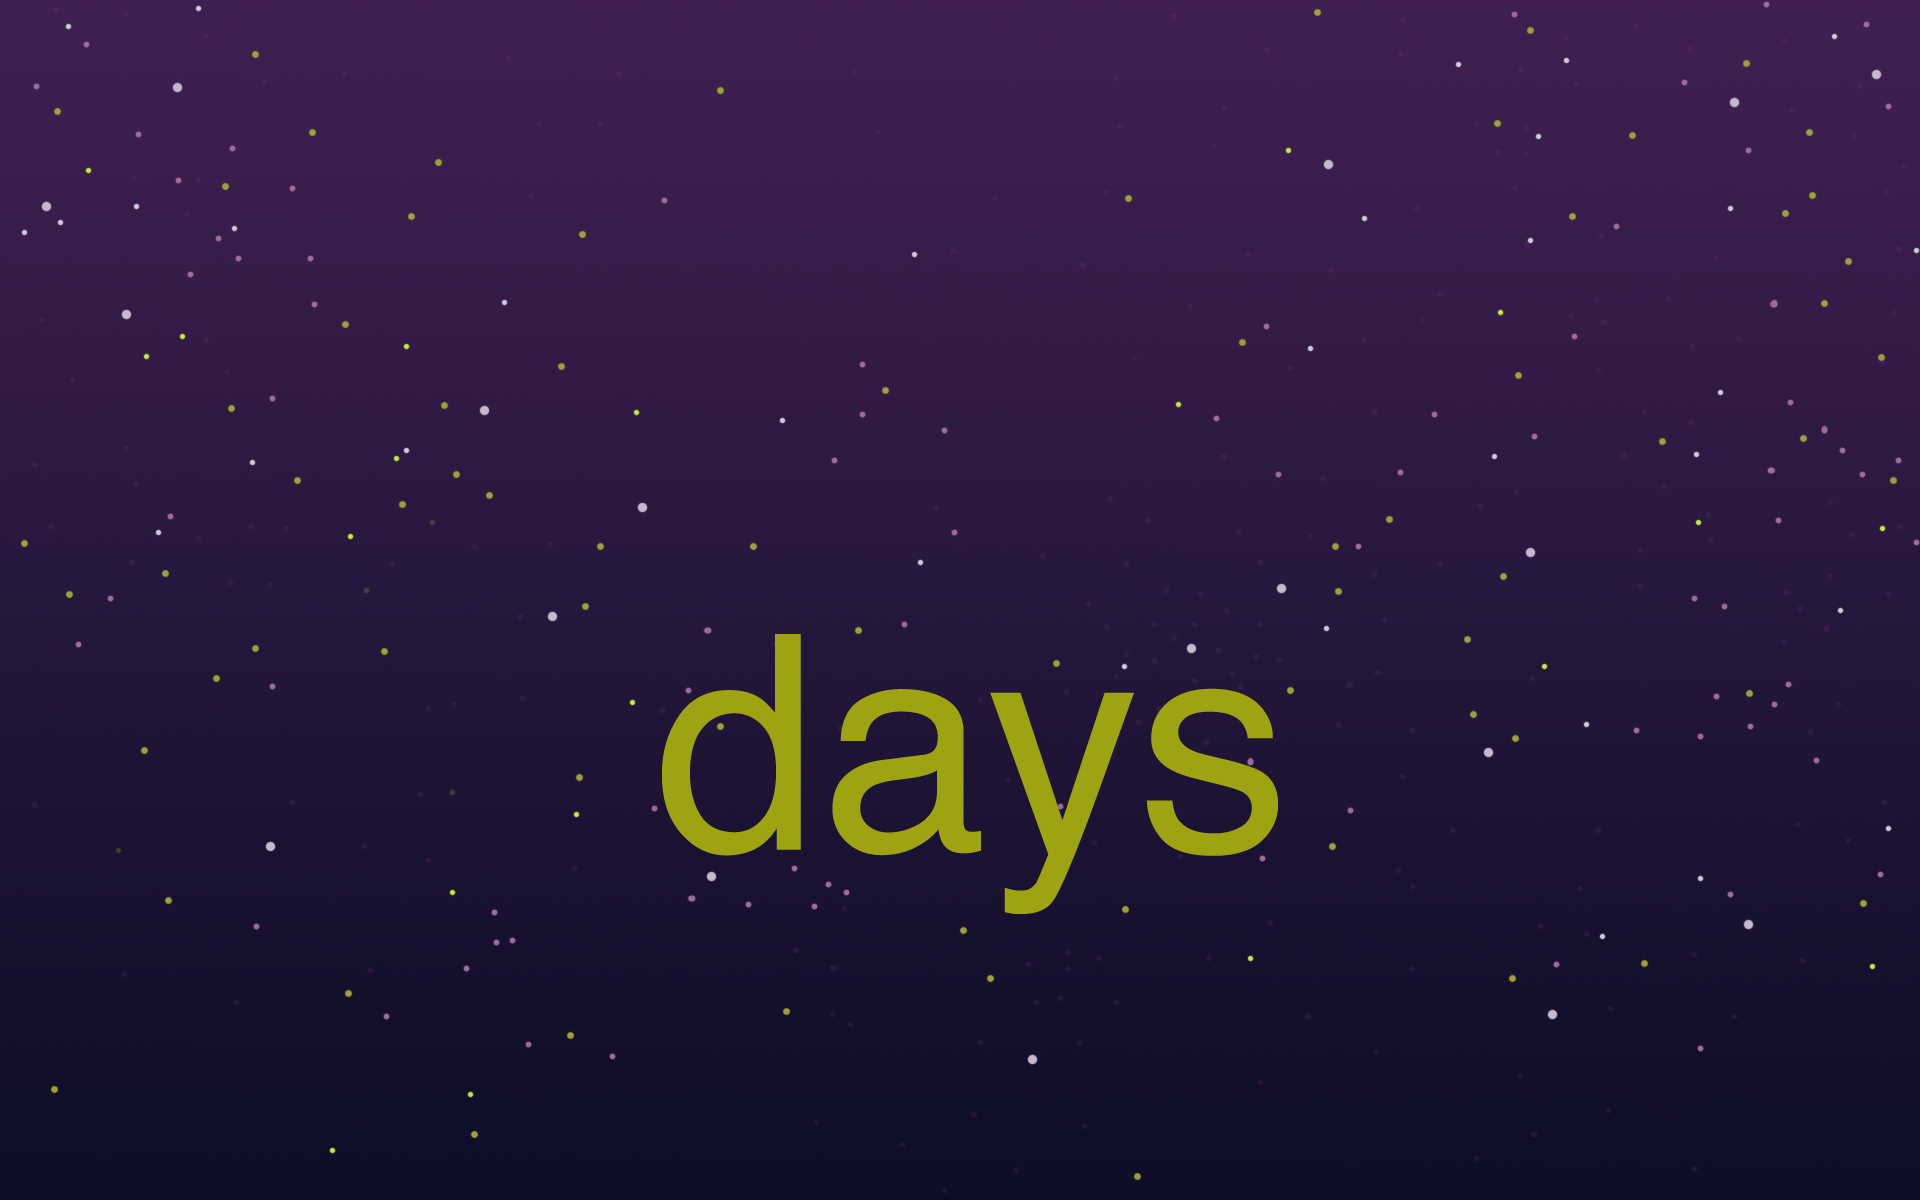
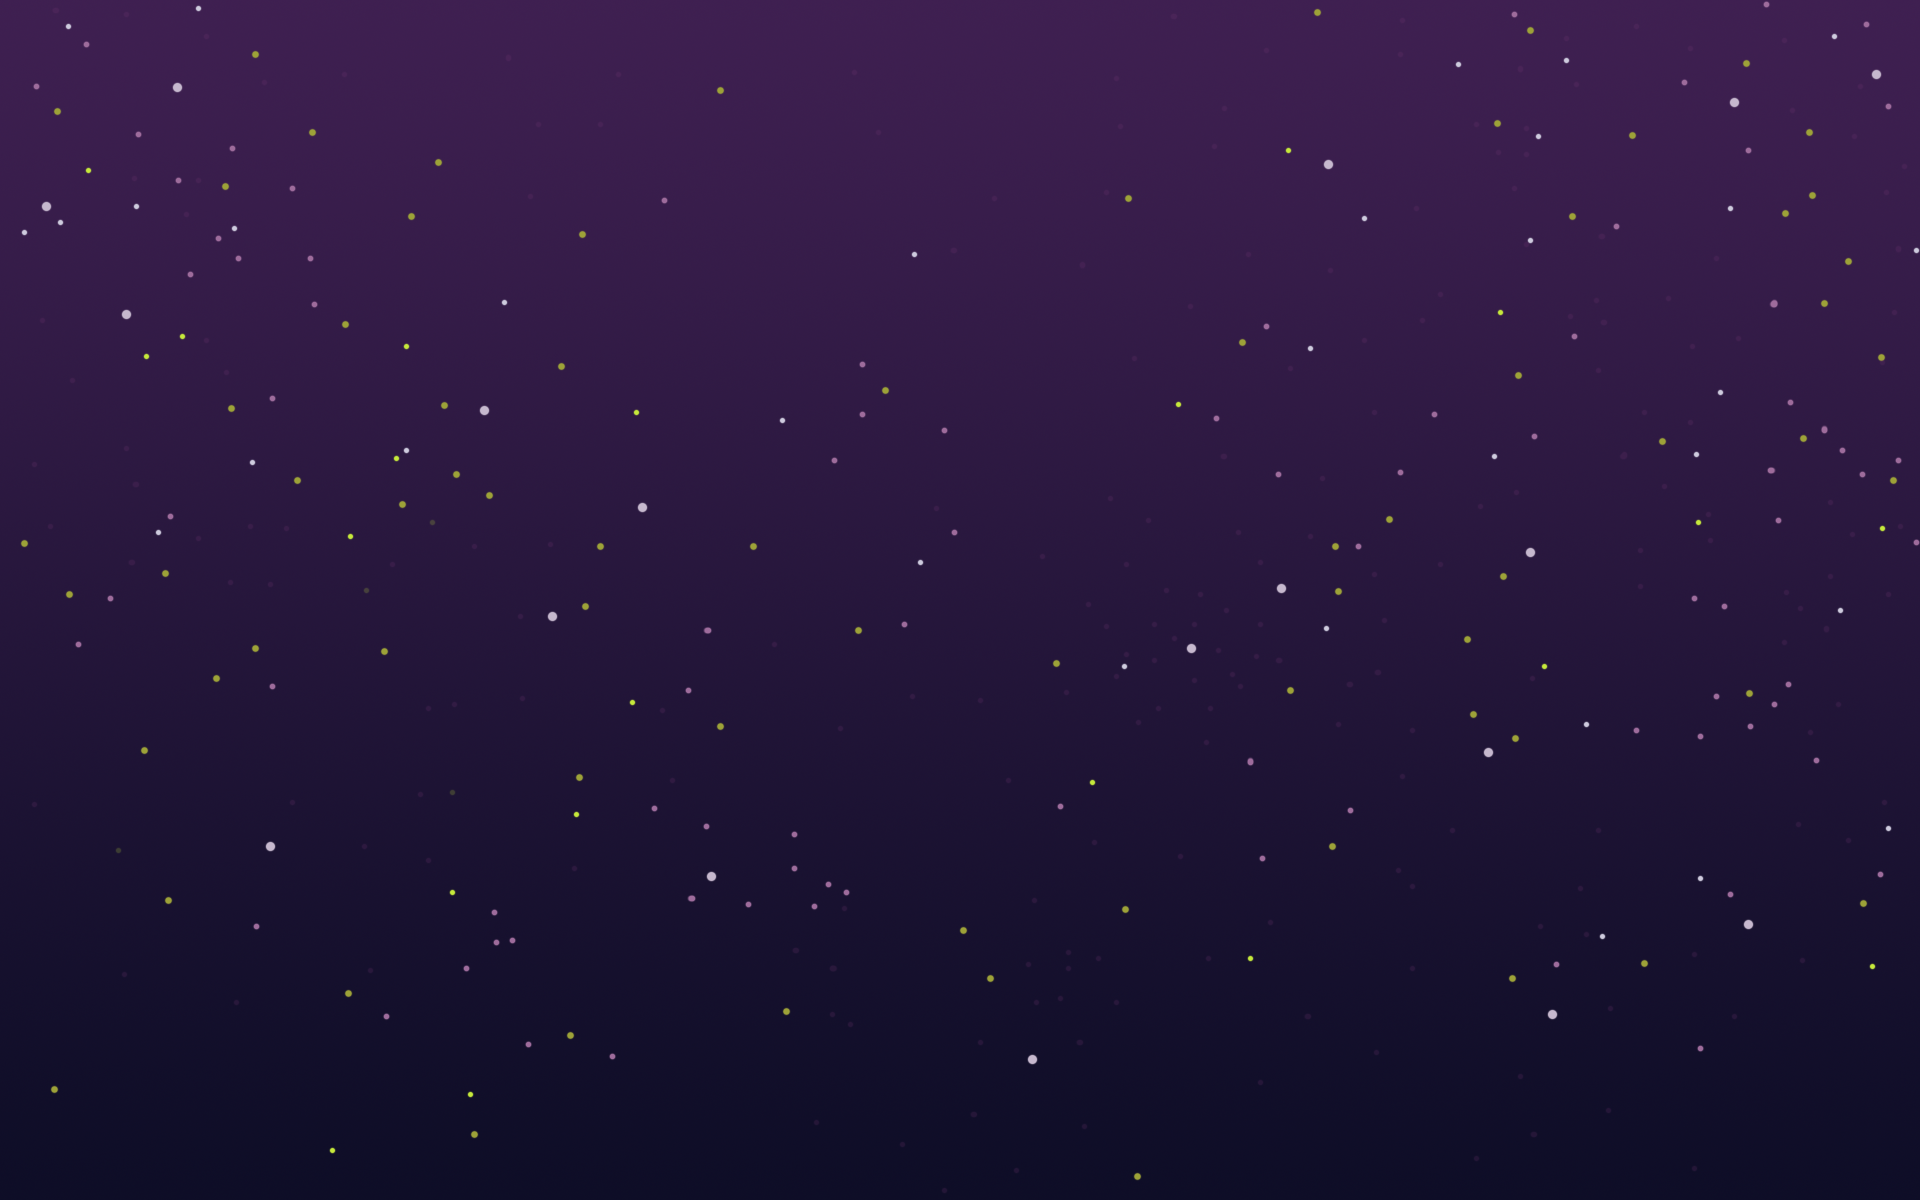
Updated header link - inside jumbotron, centered.

Changed region(s): [[0.3438, 0.5242, 0.6875, 0.7708]]

diff --git a/src/main/resources/static/css/styles.css b/src/main/resources/static/css/styles.css
@@ -44,13 +44,14 @@ img{
     font-family: Helvetica;
     margin-left: auto;
     margin-right: auto;
+    margin-bottom: 500px;
     width: 800px;
 }
 
 .entries{
     margin-top: 10px;
     margin: auto;
-    color: #81699b;
+    color: #bfb3cc;
     font-size: 18px;
     font-family: Andale Mono;
 
@@ -68,6 +69,9 @@ img{
     text-align: center;
     color: #9ea311;
     margin-top: 200px;
+    width: auto;
+    margin-left: auto;
+    margin-right: auto;
 }
 
 .mint{
@@ -100,7 +104,7 @@ a{
 }
 
 a:hover{
-    color:#3eb149;
+    text-decoration: none;
 }
 
 nav{
@@ -121,7 +125,7 @@ nav{
 
 .tooltiptext + .tooltip > .tooltip-inner  {
     background-color: #2e3156;
-    color: #81699b;
+    color: #bfb3cc;
     font-size: 12px;
     font-family: Andale Mono;
 }
@@ -142,3 +146,6 @@ nav{
   align-items:center;
   background:url("/images/days-header.png") center center;
   background-size:cover;
+
+}
+

diff --git a/src/main/resources/templates/entry/index.html b/src/main/resources/templates/entry/index.html
@@ -3,9 +3,12 @@
 <head th:replace="fragments :: head"></head>
 
 
-<div class="jumbotron"></div>
-
 <body class = "body">
+
+<div class="jumbotron">
+    <a class="col-md-12" href="/days/"><h1 id="daysheader">days</h1></a>
+</div>
+
 <div class="container">
 <div class="page">
 
